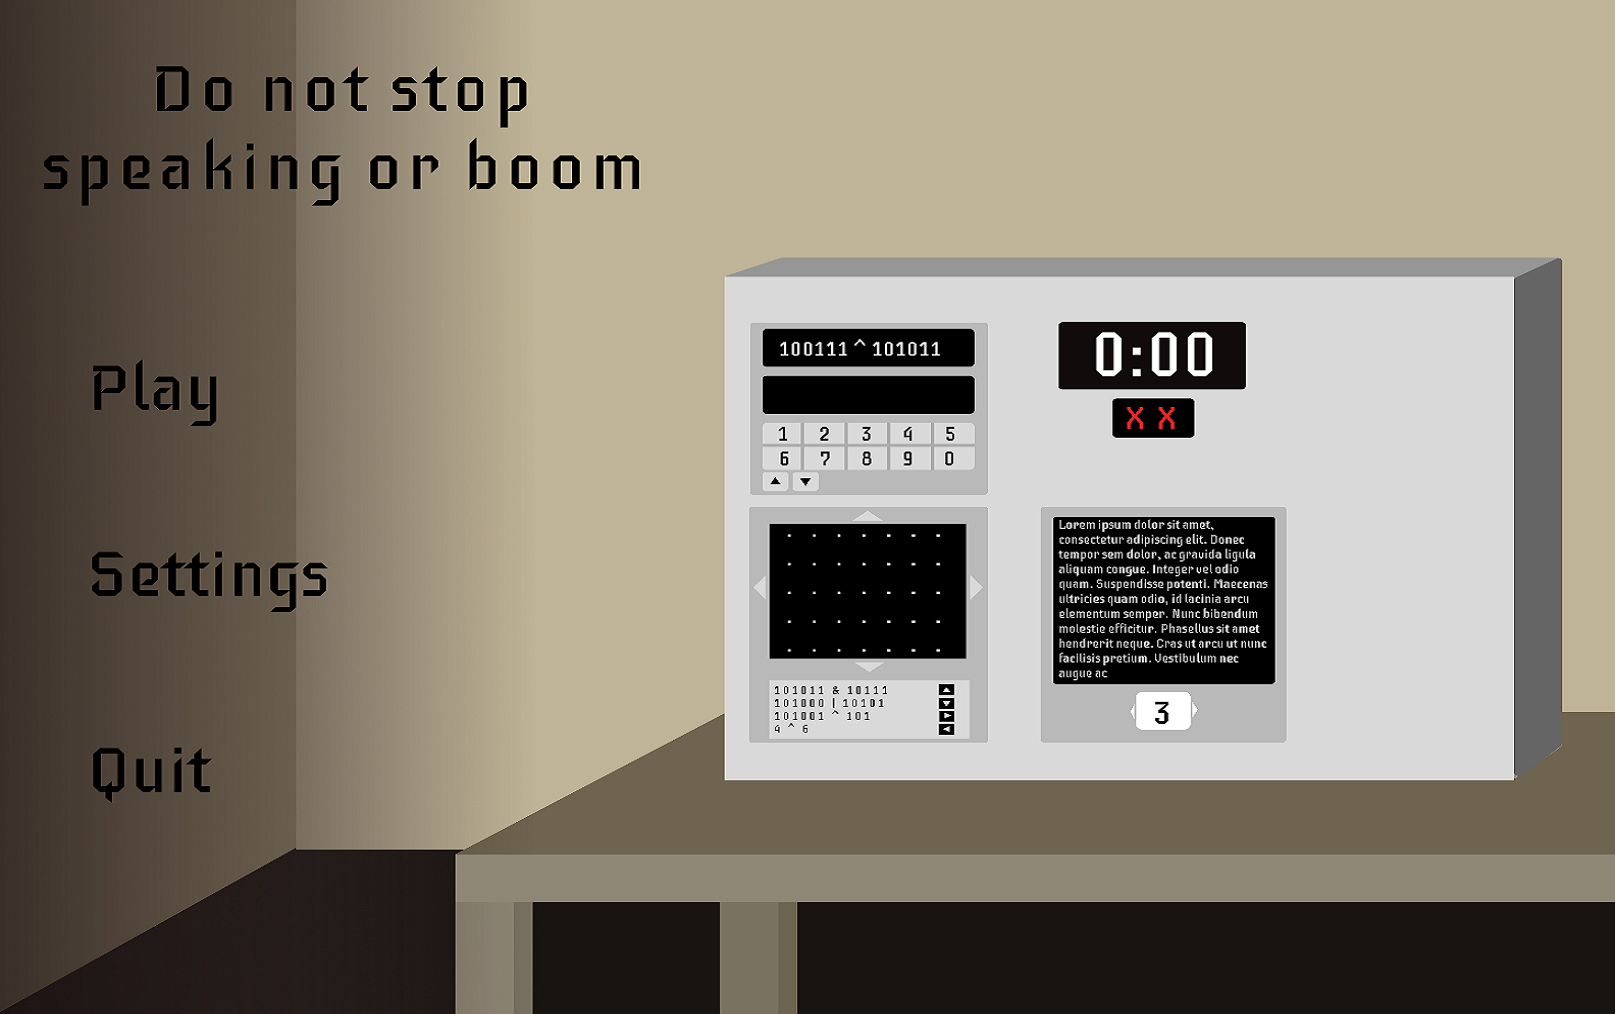
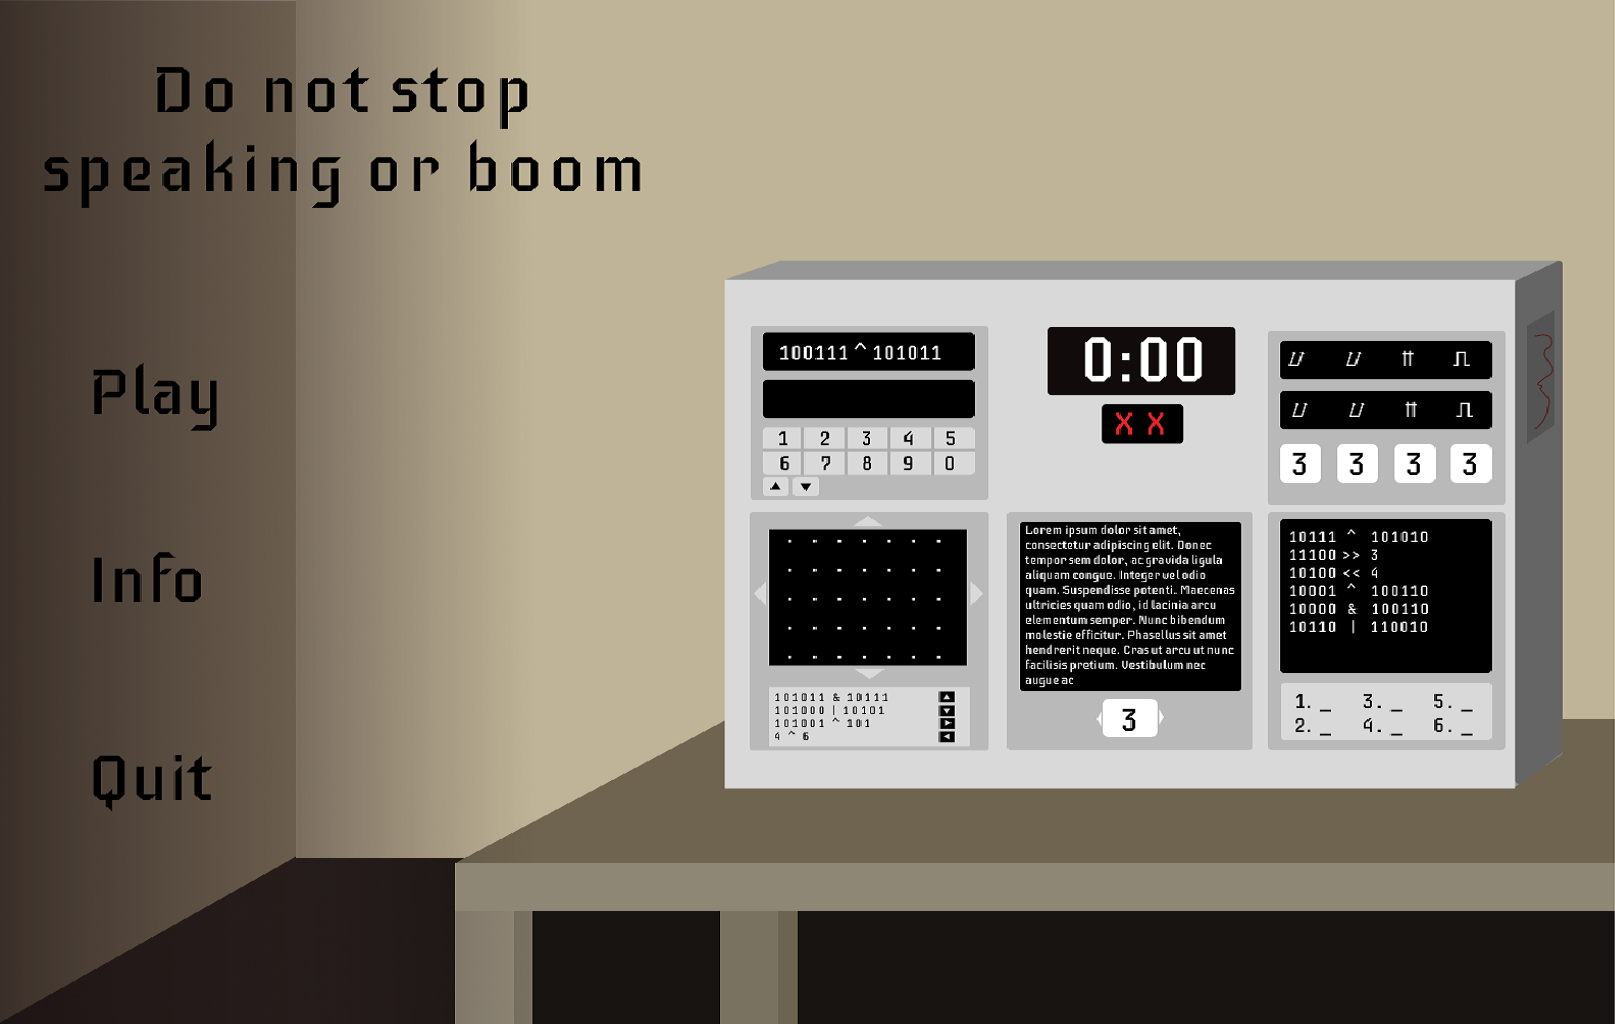
Add main menu. Close #5

diff --git a/do not stop talking or boom/_build/main.cpp b/do not stop talking or boom/_build/main.cpp
@@ -6,14 +6,21 @@ int main() {
 
 	Texture2D menu = LoadTexture("../resources/menu.png");
 
-	while (!WindowShouldClose()) {
+	SetWindowIcon(LoadImage("../resources/menu.png"));
 
+	while (!WindowShouldClose()) {
 
 		BeginDrawing();
 
 		DrawTexture(menu, 0, 0, WHITE);
 
-		if (IsMouseButtonPressed(MOUSE_BUTTON_LEFT) && GetMouseX() >= 94 && GetMouseX() <= 209 && GetMouseY() >= 745 && GetMouseY() <= 800) {
+		if (IsMouseButtonPressed(MOUSE_BUTTON_LEFT) && GetMouseX() >= 94 && GetMouseX() <= 219 && GetMouseY() >= 365 && GetMouseY() <= 430) {
+			UnloadTexture(menu);
+		}
+		else if (IsMouseButtonPressed(MOUSE_BUTTON_LEFT) && GetMouseX() >= 94 && GetMouseX() <= 209 && GetMouseY() >= 550 && GetMouseY() <= 605) {
+			UnloadTexture(menu);
+		}
+		else if (IsMouseButtonPressed(MOUSE_BUTTON_LEFT) && GetMouseX() >= 94 && GetMouseX() <= 209 && GetMouseY() >= 755 && GetMouseY() <= 810) {
 			return 0;
 		}
 
